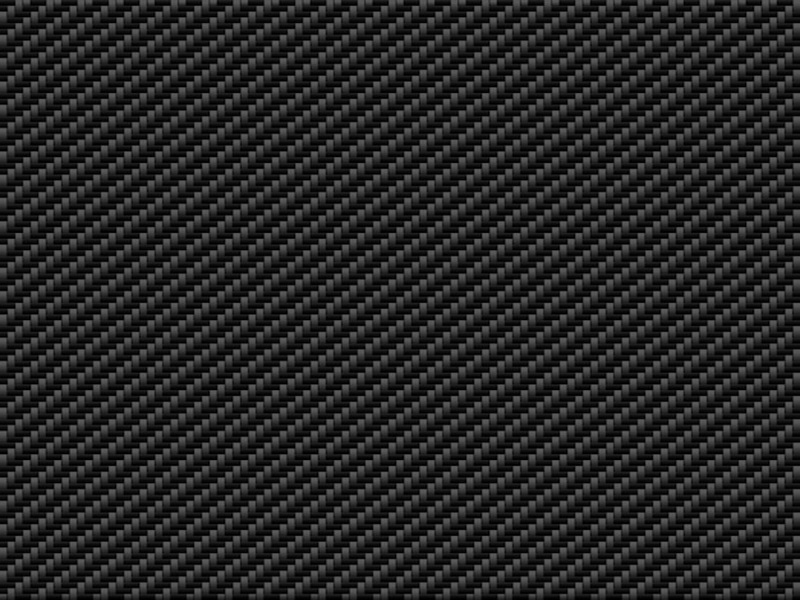
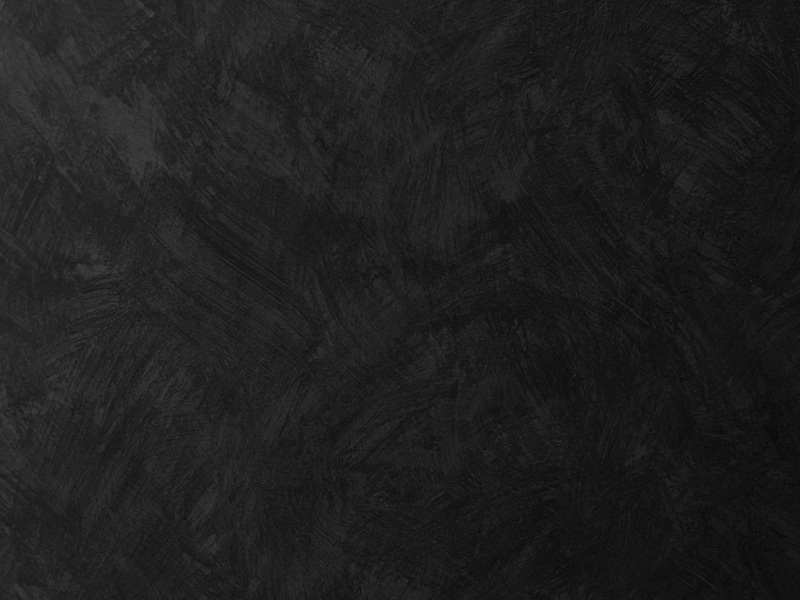
poprawki oraz dodanie mozliwosci przyspieszenia i zwolnienia odczytu

diff --git a/RaceDash/Tworzenie_obiektow.cpp b/RaceDash/Tworzenie_obiektow.cpp
@@ -194,6 +194,7 @@ void Obiekty_wspolne::utworzenie_obiektow(){
     obramowka_paliwo.aktualizuj_prostokat({ 100,30 }, sf::Color::Transparent, { 0,0,0 }, 5, { 600, 535 });
     stan_paliwa.aktualizuj_prostokat({ 100,30 }, { 0,255,0 }, sf::Color::Transparent, 0, { 600, 535 });
     rezerwa = false;
+
 }
 
 //DLA WSPOLNYCH OBIEKTOW WARUNKI
@@ -219,6 +220,7 @@ void Obiekty_wspolne::warunki(Pojazd& AktualnyStan, sf::Clock& zegar_dla_migania
     bateria.zmiana_koloru_obramowki(alarm_dolny(AktualnyStan.getBateria(), 12.0, 12.5, zegar_dla_migania));
 
     cisnienie_oleju.zmiana_koloru_obramowki(alarm_podwojny(AktualnyStan.getCisnienie(), 6.7, 6.0, 1.0, 2.5, zegar_dla_migania ));
+
 }
 
 //DLA WSPOLNYCH OBIEKTOW RYSOWANIE
@@ -282,6 +284,8 @@ void Obiekty_cyfrowy::warunki(Pojazd& AktualnyStan, sf::Clock& zegar_dla_migania
     obroty_cyfrowy.poziom_paliwa(8000.0, 0.0, AktualnyStan.getObroty(), 570, 60);
 
     ramka_predkosci.zmiana_obramowki(plynna_zmiana_obramowania(AktualnyStan.getPredkosc(), 240.0, 0.0, { 0,255,0 }, { 255,0,0 }));
+
+    ramka_biegu.zmiana_obramowki(plynna_zmiana_obramowania(AktualnyStan.getObroty(), 8000.0, 0.0, {0,255,0}, {255,0,0}));
 
     obroty_cyfrowy.zmiana_wypelnienia(plynny_alarm(AktualnyStan.getObroty(), 10000.0, 0.0, { 0,255,0 }, { 255,0,0 }, 7000.0, zegar_dla_migania));
 
@@ -379,7 +383,8 @@ void Obiekty_analogowy::warunki(Pojazd& AktualnyStan, sf::Clock& zegar_dla_migan
     obroty.zmiana_koloru_obramowki(plynna_zmiana_obramowania(AktualnyStan.getObroty(), 10000.0, 0.0, { 0,255,0 }, { 255,0,0 }));
     obramowka_rpm.zmiana_obramowki(plynny_alarm(AktualnyStan.getObroty(), 10000.0, 0.0, { 0,255,0 }, { 255,0,0 }, 7000.0, zegar_dla_migania));
 
-    obramowka_tempoleju.zmiana_obramowki(plynny_alarm(AktualnyStan.getTempoleju(), 150, 0.0, { 0,155,255 }, { 255,0,0 }, 130, zegar_dla_migania));
+    //obramowka_tempoleju.zmiana_obramowki(plynny_alarm(AktualnyStan.getTempoleju(), 150, 0.0, { 0,155,255 }, { 255,0,0 }, 130, zegar_dla_migania));
+    obramowka_tempoleju.zmiana_obramowki(alarm_temp_oleju(AktualnyStan.getTempoleju(), 130.0, 110.0, 90, zegar_dla_migania));
 }
 
 //OBIEKTY ANALOGOWE RYSOWANIE
@@ -431,12 +436,15 @@ void Obiekty_logiczne::utworzenie_obiektow() {
     analogowy.utworzenie_obiektow();
     cyfrowy.utworzenie_obiektow();
 
+    button_inf.aktualizuj_napis("Strzalka prawa - PRZYSPIESZENIE odczytywania\nStrzalka lewa - ZWOLNIENIE odczytywania\nAktualnie: ", { 130,30 }, 13, { 255,255,255,100 });
+
     //NA START ZAWSZE LADUJEMY ANALOGOWY TRYB
     Aktualny_obiekt = &analogowy;
 }
 
 void Obiekty_logiczne::warunki(Pojazd& AktualnyStan, sf::Clock& zegar_dla_migania) {
     wspolne.warunki(AktualnyStan, zegar_dla_migania);
+    button_inf.dodaj_wartosc_zmienna(wyswietlanie_odswiezanie_pliku);
     Aktualny_obiekt->warunki(AktualnyStan, zegar_dla_migania);
 }
 
@@ -492,6 +500,9 @@ void Obiekty_logiczne::rysowanie_obiektow(sf::RenderWindow& window, Pojazd& Aktu
 
         Aktualny_obiekt->rysowanie_obiektow(window, AktualnyStan, zegar_dla_migania);
 
+        button_inf.rysuj(window);
+
+
         if (czy_menu_wysuniete == false) {
             opcje.rysuj_zdj(window);
         }
@@ -506,6 +517,8 @@ void Obiekty_logiczne::rysowanie_obiektow(sf::RenderWindow& window, Pojazd& Aktu
         if (stop_klikniete == false) {
             stop_button.rysuj(window);
         }
+
+
     }
     window.display();
 }

diff --git a/RaceDash/main.cpp b/RaceDash/main.cpp
@@ -49,11 +49,33 @@ int main() {
         // NAJECHANIE NA GUZIKI
         obiekty->hover(poz_myszki);
 
+        //OBLSUGA KLIKNIECIA STRZALEK = przyspieszenie/zwolnienie odczytywania z pliku
         while (const auto event = window.pollEvent()) {
             if (event->is<sf::Event::Closed>()) { // sprawdzanie czy kliknieto X w oknie
                 window.close();
             }
+            if (const auto* buttonevent = event->getIf<sf::Event::KeyPressed>()) {
 
+                if (buttonevent->code == sf::Keyboard::Key::Left) {
+                    obiekty->odswiezanie_pliku += 15;
+                    obiekty->wyswietlanie_odswiezanie_pliku -= 15;
+
+                    if (obiekty->odswiezanie_pliku >= 190) {
+                        obiekty->odswiezanie_pliku = 190;
+                        obiekty->wyswietlanie_odswiezanie_pliku = 10;
+                    }
+                }
+                else if (buttonevent->code == sf::Keyboard::Key::Right) {
+                    obiekty->odswiezanie_pliku -= 15;
+                    obiekty->wyswietlanie_odswiezanie_pliku += 15;
+
+                    if (obiekty->odswiezanie_pliku <= 10) {
+                        obiekty->odswiezanie_pliku = 10;
+                        obiekty->wyswietlanie_odswiezanie_pliku = 190;
+
+                    }
+                }
+            }
             //OBSLUGA KLIKNIECIA W GUZIKI
             if (const auto* mousevent = event->getIf<sf::Event::MouseButtonPressed>()) {
                 if (mousevent->button == sf::Mouse::Button::Left) {
@@ -76,6 +98,8 @@ int main() {
                         }
                         getline(logi, linia);
 
+                        obiekty->odswiezanie_pliku = 100;
+                        obiekty->wyswietlanie_odswiezanie_pliku = obiekty->odswiezanie_pliku;
                         MoznaCzytac = true;
                         obiekty->start_na_testowym = false;
                         zegar_dla_danych.restart();
@@ -95,6 +119,8 @@ int main() {
                             obiekty->main_menu_otwarte = false;
                             obiekty->wczytaj_plik = false;
                         }
+                        obiekty->odswiezanie_pliku = 100;
+                        obiekty->wyswietlanie_odswiezanie_pliku = obiekty->odswiezanie_pliku;
                         zegar_dla_danych.restart();
                     }
                     //ZAMYKANIE PROGRAMU JESLI EXIT KLIKNIETE
@@ -111,7 +137,7 @@ int main() {
         
          // PETLA AKTUALIZUJACA DANE AZ DO KONCA DANYCH W PLIKU
         if (obiekty->start_klikniete == true) {
-            if ((MoznaCzytac == true) && (zegar_dla_danych.getElapsedTime().asMilliseconds() >= 100)) {
+            if ((MoznaCzytac == true) && (zegar_dla_danych.getElapsedTime().asMilliseconds() >= obiekty->odswiezanie_pliku)) {
                 if (odczyt(logi, AktualnyStan) == false) {              // jesli skoncza sie dane do czytania koniec programu
                     cout << "Koniec danych" << endl;
                     MoznaCzytac = false;

diff --git a/RaceDash/wyswietlanie.h b/RaceDash/wyswietlanie.h
@@ -18,8 +18,6 @@ public:
 	void aktualizuj_tekst(int CharacterSize, sf::Color TextColor, sf::Vector2f Position);
 	void aktualizuj_string(float wartosc, int precyzja, string znak);
 	void zmiana_koloru_obramowki(sf::Color kolor);
-	void alarm_gorny(float wartosc, float prog_ostrzegawczy, float prog_krytyczny, sf::Clock& Zegar, Ladowanie_grafik& image1, Ladowanie_grafik& image2, sf::RenderWindow& window);
-	void alarm_dolny(float wartosc, float prog_ostrzegawczy, float prog_krytyczny, sf::Clock& Zegar, Ladowanie_grafik& image1, Ladowanie_grafik& image2, sf::RenderWindow& window);
 	void rysuj(sf::RenderWindow& window, float wartosc, int precyzja, string znak);
 };
 
@@ -75,9 +73,7 @@ class Tekst {
 	
 public:
 	Tekst(sf::Font & czcionka) : napis(czcionka){}
-
 	void aktualizuj_napis(string text, sf::Vector2f SetPostion, int Charactersize, sf::Color Fillcolor);
+	void dodaj_wartosc_zmienna(float wartosc);
 	void rysuj(sf::RenderWindow& window);
 };
-
-sf::Color plynna_zmiana_koloru(float wartosc, float maxwartosc, float minwartosc, sf::Color start, sf::Color koniec);

diff --git a/RaceDash/wyswietanie.cpp b/RaceDash/wyswietanie.cpp
@@ -41,8 +41,8 @@ void Wyswietlanie::aktualizuj_string(float wartosc, int precyzja, string znak) {
 		stringstream stream;           
 
 		stream.precision(precyzja);     
-		stream.setf(ios::fixed);   // ustawienie precyzji po przecinku 
-		stream<<wartosc;            
+		stream<<fixed<<wartosc;            // ustawienie precyzji po przecinku i  wrzucanie napisu
+
 
 		tekst.setString(stream.str() + znak);
 	}
@@ -193,6 +193,13 @@ void Tekst::aktualizuj_napis(string text, sf::Vector2f SetPostion, int Character
 	napis.setPosition(SetPostion);
 	napis.setCharacterSize(Charactersize);
 	napis.setFillColor(Fillcolor);
+}
+void Tekst::dodaj_wartosc_zmienna(float wartosc){
+	stringstream liczba;
+	liczba.precision(2);
+	liczba << fixed << wartosc/100;
+
+	napis.setString("Strzalka prawa - PRZYSPIESZENIE odczytywania\nStrzalka lewa - ZWOLNIENIE odczytywania\nAktualnie: " + liczba.str());
 }
 void Tekst::rysuj(sf::RenderWindow& window) {
 	window.draw(napis);

diff --git a/RaceDash/Tworzenie_obiektow.h b/RaceDash/Tworzenie_obiektow.h
@@ -156,9 +156,14 @@ public:
     Obiekty_analogowy analogowy;
     Obiekty_cyfrowy cyfrowy;
 
+    float odswiezanie_pliku = 100;
+    float wyswietlanie_odswiezanie_pliku = odswiezanie_pliku;
+
+    Tekst button_inf;
+
    Obiekty_logiczne(grafiki& grafika) :
         opcje(grafika.menu_png, grafika.czcionka), start_button(grafika.czcionka), stop_button(grafika.czcionka),
-        main_menu(grafika.main_menu_jpg, grafika.czcionka), wspolne(grafika), analogowy(grafika), cyfrowy(grafika) {}
+        main_menu(grafika.main_menu_jpg, grafika.czcionka), wspolne(grafika), analogowy(grafika), cyfrowy(grafika), button_inf(grafika.czcionka) {}
 
     void utworzenie_obiektow();
     void warunki(Pojazd& AktualnyStan, sf::Clock& zegar_dla_migania);

diff --git a/RaceDash/dane.cpp b/RaceDash/dane.cpp
@@ -37,7 +37,7 @@ string wybierz_plik() {
 bool odczyt(fstream& logi, Pojazd& AktualnyStan) {
 
 	string linia;
-	float przepisanie[9];
+	float przepisanie[9] = { 0.0 };
 
 		if (getline(logi, linia)) {
 
